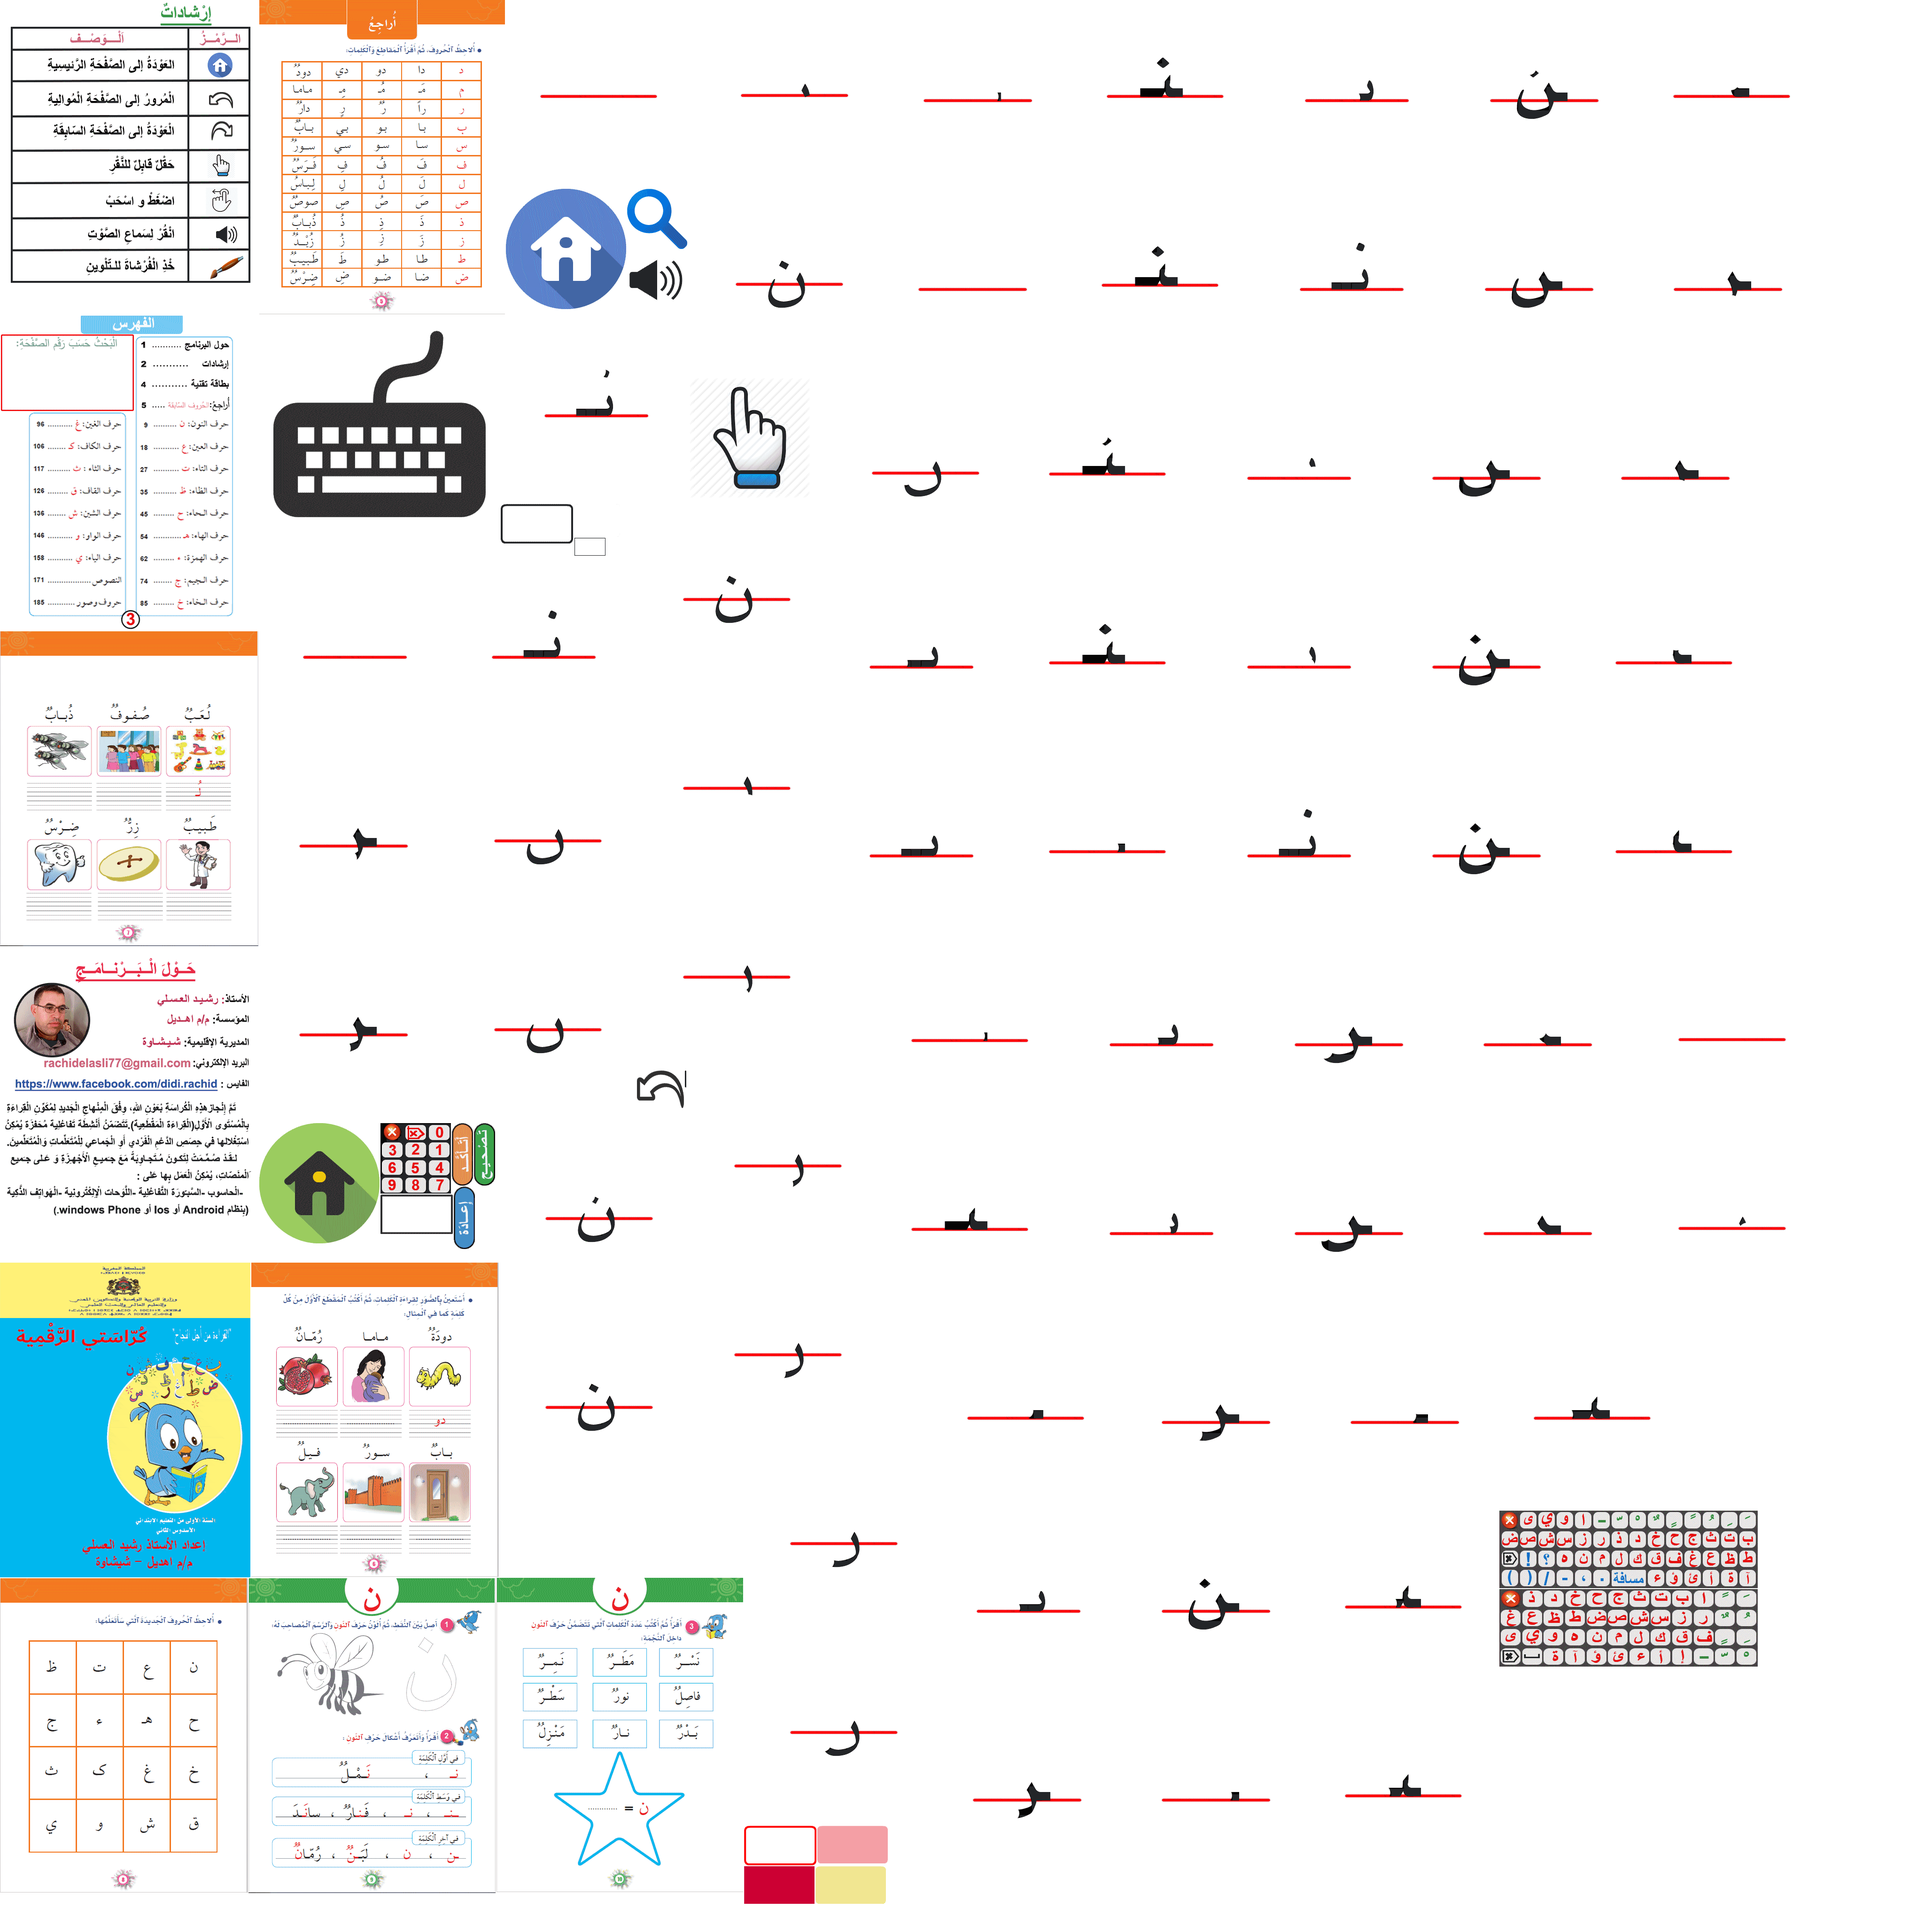
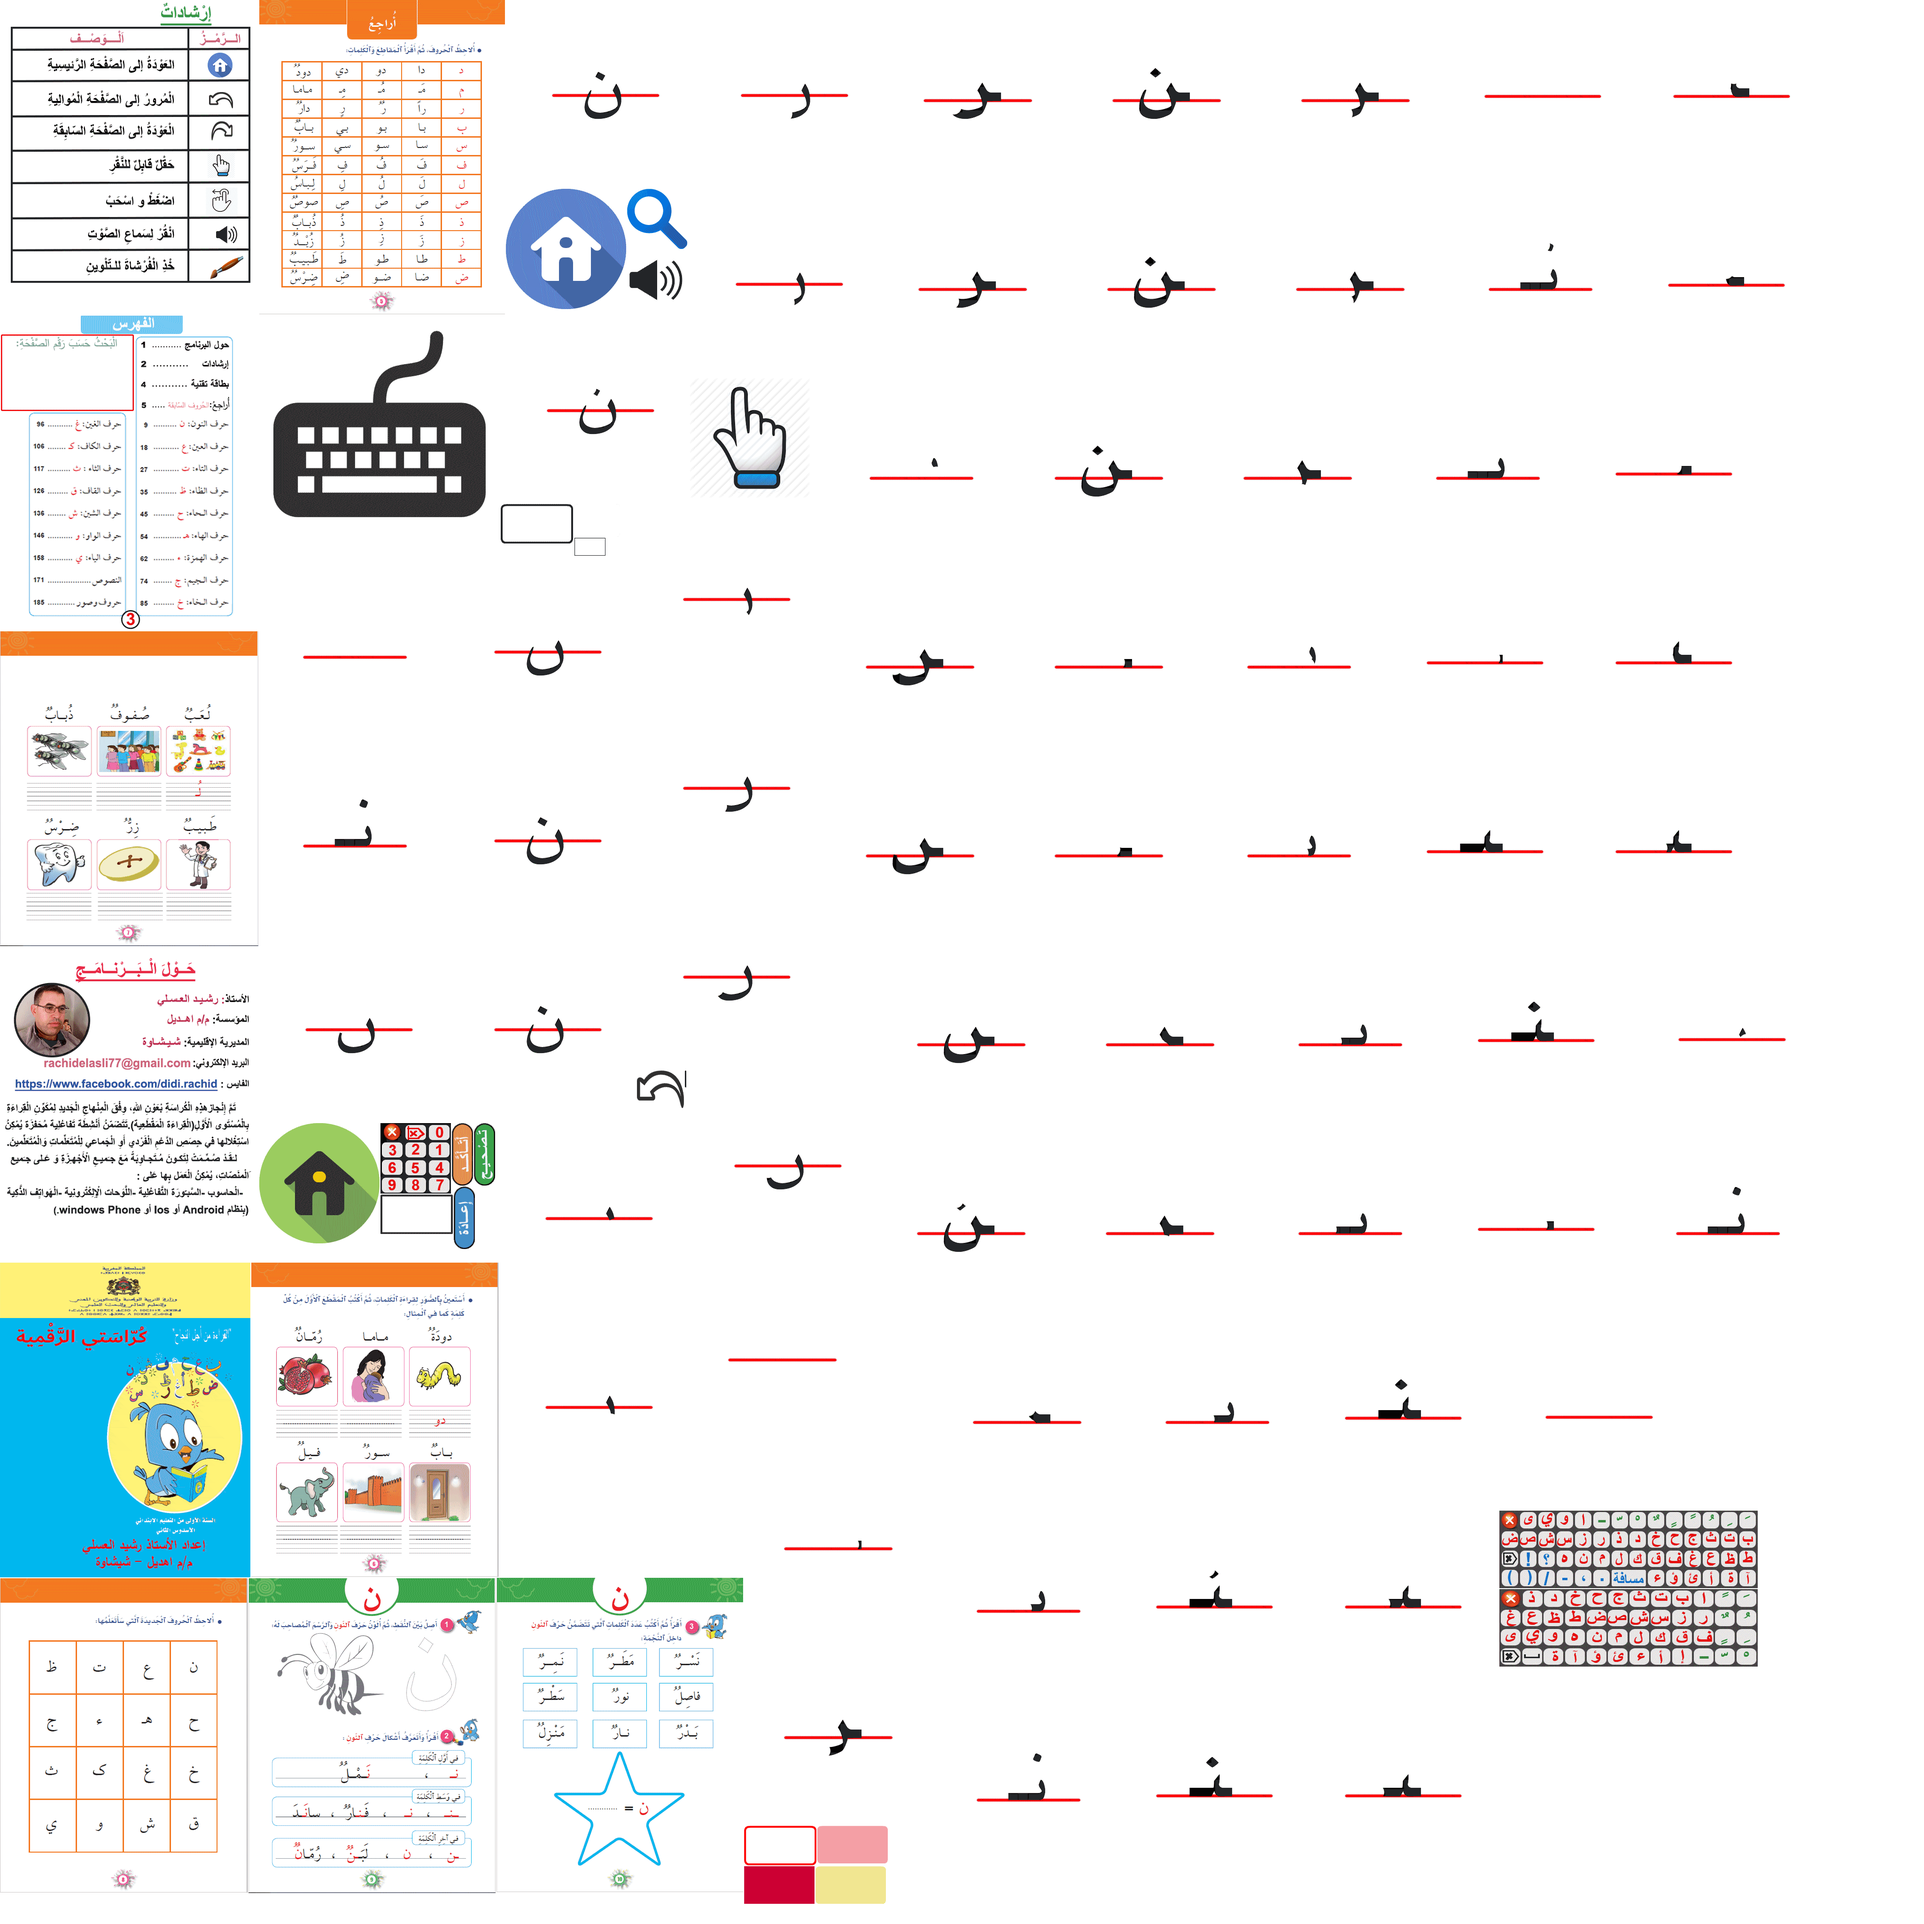
samedi

diff --git a/kourassa3.js b/kourassa3.js
@@ -3,7 +3,7 @@
 var p; // shortcut to reference prototypes
 var lib={};var ss={};var img={};
 lib.ssMetadata = [
-		{name:"kourassa3_atlas_", frames: [[0,2688,533,670],[552,1185,400,400],[2562,804,400,400],[2674,402,400,400],[2562,1608,400,400],[954,1185,400,400],[2562,1206,400,400],[2269,2412,400,400],[2685,0,400,400],[2269,2010,400,400],[1986,3216,400,400],[1758,1206,400,400],[1758,1608,400,400],[1066,671,400,400],[1077,0,400,400],[1867,2010,400,400],[1867,2412,400,400],[2160,804,400,400],[2272,402,400,400],[2283,0,400,400],[2160,1206,400,400],[2160,1608,400,400],[1986,2814,400,400],[3489,0,400,400],[3366,1206,400,400],[3366,1608,400,400],[2790,3216,400,400],[2790,3618,400,400],[3192,2814,400,400],[3475,2010,400,400],[3475,2412,400,400],[954,1587,400,400],[954,1989,400,400],[1063,2391,400,400],[1063,2793,400,400],[1356,1073,400,400],[1468,402,400,400],[1479,0,400,400],[1356,1475,400,400],[1356,1877,400,400],[1465,2279,400,400],[1465,2681,400,400],[1584,3083,400,400],[1584,3485,400,400],[1758,804,400,400],[1870,402,400,400],[1881,0,400,400],[1986,3618,400,400],[2388,2814,400,400],[2671,2010,400,400],[2671,2412,400,400],[2964,804,400,400],[3076,402,400,400],[3087,0,400,400],[2964,1206,400,400],[2964,1608,400,400],[2388,3216,400,400],[2388,3618,400,400],[2790,2814,400,400],[3073,2010,400,400],[3073,2412,400,400],[3366,804,400,400],[3478,402,400,400],[552,1587,400,400],[552,1989,400,400],[535,2688,526,669],[0,3360,527,669],[529,3360,526,670],[1057,3359,525,669],[0,0,550,670],[552,0,523,669],[962,2391,45,133],[966,2526,45,133],[1009,2391,45,133],[1066,1073,154,84],[810,2543,154,84],[1584,3887,154,84],[3192,3216,550,165],[3192,3383,550,165],[810,2391,150,150],[1458,2279,3,36],[552,671,512,512],[1468,804,256,256],[1077,402,256,256],[552,2391,256,256],[1335,402,128,128],[0,672,550,670],[0,1344,550,670],[0,2016,550,670],[1222,1144,67,39],[1584,3973,150,80],[1736,3973,150,80],[1222,1073,98,69],[1740,3887,150,80],[1356,2279,100,80],[1335,532,128,128]]}
+		{name:"kourassa3_atlas_", frames: [[0,2688,533,670],[552,1185,400,400],[1758,804,400,400],[1986,3618,400,400],[3475,2412,400,400],[552,1587,400,400],[2562,1206,400,400],[2562,1608,400,400],[1986,3216,400,400],[2388,2814,400,400],[2671,2010,400,400],[2671,2412,400,400],[2964,804,400,400],[3076,402,400,400],[3087,0,400,400],[2964,1206,400,400],[2964,1608,400,400],[2388,3216,400,400],[2388,3618,400,400],[2790,2814,400,400],[3073,2010,400,400],[3073,2412,400,400],[3366,804,400,400],[3478,402,400,400],[3489,0,400,400],[3366,1206,400,400],[3366,1608,400,400],[2790,3216,400,400],[2790,3618,400,400],[3192,2814,400,400],[3475,2010,400,400],[552,1989,400,400],[954,1185,400,400],[1066,671,400,400],[1077,0,400,400],[954,1587,400,400],[954,1989,400,400],[1063,2391,400,400],[1063,2793,400,400],[1356,1073,400,400],[1468,402,400,400],[1479,0,400,400],[1356,1475,400,400],[1356,1877,400,400],[1465,2279,400,400],[1465,2681,400,400],[1584,3083,400,400],[1584,3485,400,400],[1870,402,400,400],[1881,0,400,400],[1758,1206,400,400],[1758,1608,400,400],[1867,2010,400,400],[1867,2412,400,400],[2160,804,400,400],[2272,402,400,400],[2283,0,400,400],[2160,1206,400,400],[2160,1608,400,400],[1986,2814,400,400],[2269,2010,400,400],[2269,2412,400,400],[2562,804,400,400],[2674,402,400,400],[2685,0,400,400],[535,2688,526,669],[0,3360,527,669],[529,3360,526,670],[1057,3359,525,669],[0,0,550,670],[552,0,523,669],[962,2391,45,133],[966,2526,45,133],[1009,2391,45,133],[1066,1073,154,84],[810,2543,154,84],[1584,3887,154,84],[3192,3216,550,165],[3192,3383,550,165],[810,2391,150,150],[1458,2279,3,36],[552,671,512,512],[1468,804,256,256],[1077,402,256,256],[552,2391,256,256],[1335,402,128,128],[0,672,550,670],[0,1344,550,670],[0,2016,550,670],[1222,1144,67,39],[1584,3973,150,80],[1736,3973,150,80],[1222,1073,98,69],[1740,3887,150,80],[1356,2279,100,80],[1335,532,128,128]]}
 ];
 
 
@@ -1127,53 +1127,6 @@ p.nominalBounds = new cjs.Rectangle(0,0,1,33);
 
 }).prototype = p = new cjs.MovieClip();
 p.nominalBounds = new cjs.Rectangle(0,0,160,80);
-
-
-(lib.p10 = function(mode,startPosition,loop) {
-	this.initialize(mode,startPosition,loop,{});
-
-	// timeline functions:
-	this.frame_0 = function() {
-		this.hm.on("click", p0.bind(this));
-		function p0(){this.removeAllChildren();this.parent.addChild(new lib.p0()); }
-		
-		this.pr.on("click", p9.bind(this));
-		function p9(){this.removeAllChildren();this.parent.addChild(new lib.p9()); }
-		/*
-		this.sv.on("click", p11.bind(this));
-		function p11(){this.removeAllChildren(); this.parent.addChild(new lib.p11());}
-		*/
-	}
-
-	// actions tween:
-	this.timeline.addTween(cjs.Tween.get(this).call(this.frame_0).wait(1));
-
-	// Layer_1
-	this.pr = new lib.sv();
-	this.pr.name = "pr";
-	this.pr.parent = this;
-	this.pr.setTransform(496.7,651.3,0.706,0.667,0,0,180,80,40.3);
-	new cjs.ButtonHelper(this.pr, 0, 1, 2, false, new lib.sv(), 3);
-
-	this.sv = new lib.sv();
-	this.sv.name = "sv";
-	this.sv.parent = this;
-	this.sv.setTransform(4.9,623.8,0.706,0.667);
-	new cjs.ButtonHelper(this.sv, 0, 1, 2, false, new lib.sv(), 3);
-
-	this.hm = new lib.hm();
-	this.hm.name = "hm";
-	this.hm.parent = this;
-	this.hm.setTransform(10.5,10.1,0.75,0.75);
-	new cjs.ButtonHelper(this.hm, 0, 1, 2, false, new lib.hm(), 3);
-
-	this.instance = new lib._010();
-	this.instance.parent = this;
-	this.instance.setTransform(4,5,1.048,1.001);
-
-	this.timeline.addTween(cjs.Tween.get({}).to({state:[{t:this.instance},{t:this.hm},{t:this.sv},{t:this.pr}]}).wait(1));
-
-}).prototype = getMCSymbolPrototype(lib.p10, new cjs.Rectangle(4,5,550,670), null);
 
 
 (lib.p8 = function(mode,startPosition,loop) {
@@ -2931,6 +2884,122 @@ p.nominalBounds = new cjs.Rectangle(0,0,45,133);
 	this.timeline.addTween(cjs.Tween.get({}).to({state:[{t:this.instance_1},{t:this.حَ},{t:this.حِ},{t:this.حُ},{t:this.حً},{t:this.حٍ},{t:this.حٌ},{t:this.حْ},{t:this.حّ},{t:this.حـ},{t:this.حا},{t:this.حو},{t:this.حي},{t:this.حى},{t:this.instance},{t:this.حب},{t:this.حت},{t:this.حث},{t:this.حج},{t:this.حح},{t:this.حخ},{t:this.حد},{t:this.حذ},{t:this.حر},{t:this.حز},{t:this.حس},{t:this.حش},{t:this.حص},{t:this.حض},{t:this.حط},{t:this.حظ},{t:this.حع},{t:this.حغ},{t:this.حف},{t:this.حق},{t:this.حك},{t:this.حل},{t:this.حم},{t:this.حن},{t:this.حه},{t:this.inter},{t:this.excla},{t:this.supr},{t:this.حآ},{t:this.حة},{t:this.حأ},{t:this.حئ},{t:this.حؤ},{t:this.حء},{t:this.esp},{t:this.pnt},{t:this.vir},{t:this.tir},{t:this.slsh},{t:this.thsf},{t:this.thso}]}).wait(1));
 
 }).prototype = getMCSymbolPrototype(lib.clav, new cjs.Rectangle(0,0,550,165), null);
+
+
+(lib.p10 = function(mode,startPosition,loop) {
+	this.initialize(mode,startPosition,loop,{});
+
+	// timeline functions:
+	this.frame_0 = function() {
+		this.hm.on("click", p0.bind(this));
+		function p0(){this.removeAllChildren();this.parent.addChild(new lib.p0()); }
+		
+		this.pr.on("click", p9.bind(this));
+		function p9(){this.removeAllChildren();this.parent.addChild(new lib.p9()); }
+		/*
+		this.sv.on("click", p11.bind(this));
+		function p11(){this.removeAllChildren(); this.parent.addChild(new lib.p11());}
+		*/
+		
+		this.verif.on("click" , verif.bind(this));
+		function verif(){
+			
+				if(this.txt.text == "5"){ this.txt.color = 'green';}
+				else{this.txt.color = 'red';}
+				
+				if(this.txt.text == "" ){
+				
+		        }		
+				else if(this.txt.color=='red'){
+					playSound("s9002");
+				}
+				else{playSound("s9001");}
+			}
+			
+			this.repre.on("click" , repre.bind(this));
+			function repre(){
+				this.txt.color ='blue';
+				this.txt.text="";
+				}
+				
+			this.rep.on("click" , rep.bind(this));
+			function rep(){
+			this.txt.color ='green';
+			this.txt.text="5";
+			}
+	}
+
+	// actions tween:
+	this.timeline.addTween(cjs.Tween.get(this).call(this.frame_0).wait(1));
+
+	// Layer_1
+	this.rep = new lib.btnchkTr();
+	this.rep.name = "rep";
+	this.rep.parent = this;
+	this.rep.setTransform(29.5,440.2,1,0.75,0,0,0,22.5,66.7);
+	new cjs.ButtonHelper(this.rep, 0, 1, 2, false, new lib.btnchkTr(), 3);
+
+	this.repre = new lib.btnchkTr();
+	this.repre.name = "repre";
+	this.repre.parent = this;
+	this.repre.setTransform(29.5,339.7,1,0.75,0,0,0,22.5,66.7);
+	new cjs.ButtonHelper(this.repre, 0, 1, 2, false, new lib.btnchkTr(), 3);
+
+	this.verif = new lib.btnchkTr();
+	this.verif.name = "verif";
+	this.verif.parent = this;
+	this.verif.setTransform(29.5,240.1,1,0.75,0,0,0,22.5,66.8);
+	new cjs.ButtonHelper(this.verif, 0, 1, 2, false, new lib.btnchkTr(), 3);
+
+	this.instance = new lib.Bitmap3();
+	this.instance.parent = this;
+	this.instance.setTransform(7,390,1,0.75);
+
+	this.instance_1 = new lib.Bitmap2();
+	this.instance_1.parent = this;
+	this.instance_1.setTransform(7,290,1,0.75);
+
+	this.instance_2 = new lib.Bitmap1();
+	this.instance_2.parent = this;
+	this.instance_2.setTransform(7,190,1,0.75);
+
+	this.instance_3 = new lib.clavN_1();
+	this.instance_3.parent = this;
+	this.instance_3.setTransform(94.4,556.4,0.999,0.681,0,0,0,84.2,81.6);
+
+	this.txt = new cjs.Text("", "40px 'Arial'", "#3300CC");
+	this.txt.name = "txt";
+	this.txt.textAlign = "center";
+	this.txt.lineHeight = 47;
+	this.txt.lineWidth = 72;
+	this.txt.parent = this;
+	this.txt.setTransform(241,472.6);
+
+	this.pr = new lib.sv();
+	this.pr.name = "pr";
+	this.pr.parent = this;
+	this.pr.setTransform(496.7,651.3,0.706,0.667,0,0,180,80,40.3);
+	new cjs.ButtonHelper(this.pr, 0, 1, 2, false, new lib.sv(), 3);
+
+	this.sv = new lib.sv();
+	this.sv.name = "sv";
+	this.sv.parent = this;
+	this.sv.setTransform(4.9,623.8,0.706,0.667);
+	new cjs.ButtonHelper(this.sv, 0, 1, 2, false, new lib.sv(), 3);
+
+	this.hm = new lib.hm();
+	this.hm.name = "hm";
+	this.hm.parent = this;
+	this.hm.setTransform(10.5,10.1,0.75,0.75);
+	new cjs.ButtonHelper(this.hm, 0, 1, 2, false, new lib.hm(), 3);
+
+	this.instance_4 = new lib._010();
+	this.instance_4.parent = this;
+	this.instance_4.setTransform(4,5,1.048,1.001);
+
+	this.timeline.addTween(cjs.Tween.get({}).to({state:[{t:this.instance_4},{t:this.hm},{t:this.sv},{t:this.pr},{t:this.txt},{t:this.instance_3},{t:this.instance_2},{t:this.instance_1},{t:this.instance},{t:this.verif},{t:this.repre},{t:this.rep}]}).wait(1));
+
+}).prototype = getMCSymbolPrototype(lib.p10, new cjs.Rectangle(4,5,550,670), null);
 
 
 (lib.p7 = function(mode,startPosition,loop) {
